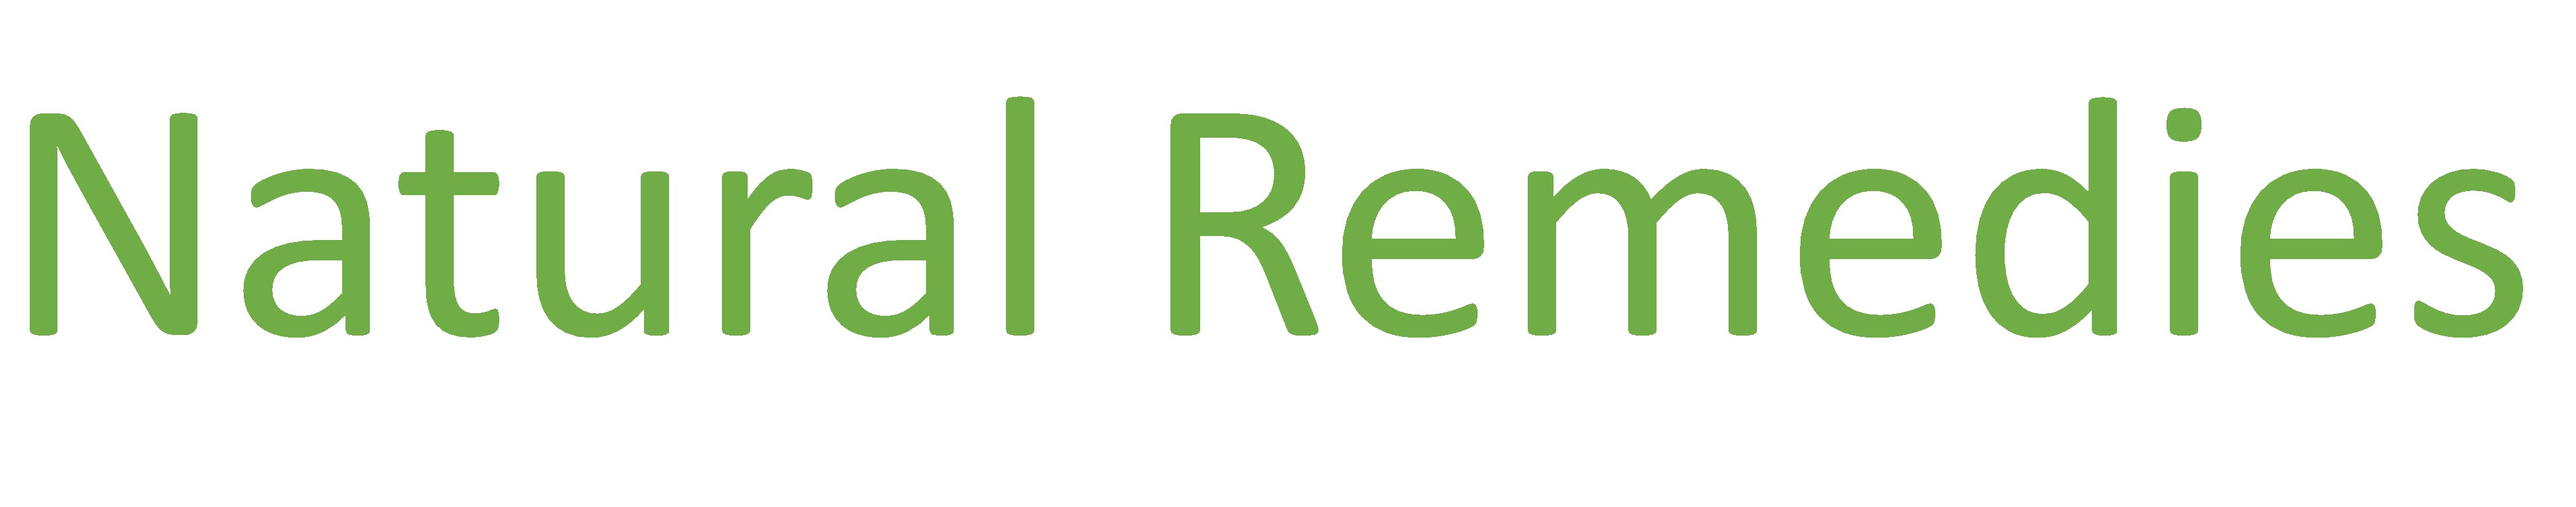
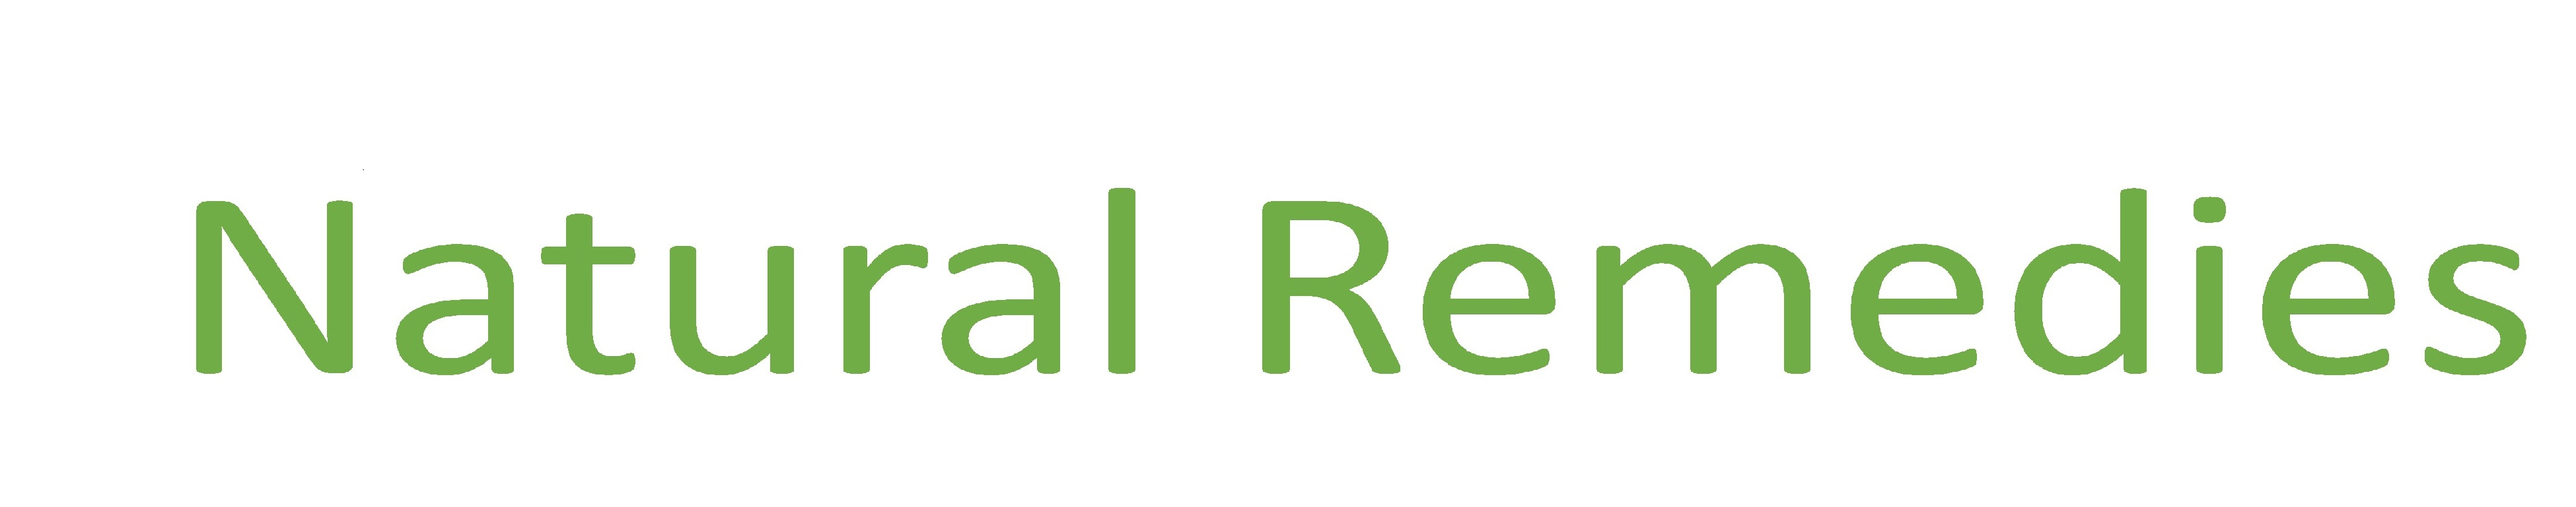
auth

Changed region(s): [[0.0, 0.1873, 0.9928, 0.749]]

diff --git a/static/style.css b/static/style.css
@@ -19,31 +19,59 @@ body{
     padding: 10px 10%;
 }
 
-nav{
+/* Navigation Bar */
+nav {
     display: flex;
     align-items: center;
     justify-content: space-between;
     flex-wrap: wrap;
 }
 
-.logo{
-    width: 440px;
-
-}
-nav ul li{
-    display: inline-block;
+nav ul {
     list-style: none;
+    display: flex;
+}
+
+nav ul li {
+    position: relative; /* For dropdown positioning */
     margin: 10px 20px;
 }
 
-nav ul li a{
+nav ul li a {
     color: #fff;
     text-decoration: none;
     font-size: 18px;
-    position: relative
+    position: relative;
+    display: inline-block;
 }
 
-nav ul li a::after{
+/* Dropdown Styles */
+.dropdown-content {
+    display: none;
+    position: absolute;
+    background: #080808; /* Match dropdown background with body background */
+    min-width: 160px;
+    box-shadow: 0px 8px 16px 0px rgba(0,0,0,0.2);
+    z-index: 1;
+}
+
+.dropdown-content a {
+    color: #fff;
+    padding: 12px 16px;
+    text-decoration: none;
+    display: block;
+}
+
+.dropdown-content a:hover {
+    background-color: #ff004f; /* Color for hover effect */
+}
+
+nav ul li:hover .dropdown-content {
+    display: block;
+}
+
+/* Hover effect for links */
+nav ul li a::after {
     content: '';
     width: 0;
     height: 3px;
@@ -54,7 +82,7 @@ nav ul li a::after{
     transition: 0.5s;
 }
 
-nav ul li a:hover::after{
+nav ul li a:hover::after {
     width: 100%;
 }
 .header-text{
@@ -68,7 +96,7 @@ nav ul li a:hover::after{
 .header-text h1 span{
     color:aquamarine;
 }
-/*-------------------about-----------------*/
+
 #about{
     padding: 80px 0;
     color: #ababab;
@@ -80,8 +108,7 @@ nav ul li a:hover::after{
 }
 
 .about-col-1{
-    /*size of coca tea image*/
-    flex-basis: 35%;
+    flex-basis: 30%;
 }
 .about-col-1 img{
     width: 100%;

diff --git a/templates/index.html b/templates/index.html
@@ -11,29 +11,36 @@
 <div id = "header">
     <div class =  "container">
         <nav>
-            <img src = "images/Title.jpg" class = "logo">
-
             <ul>
-                <li><a href = '#'>Home</a></li>
-                <li><a href = '#'>About</a></li>
-                <li><a href = '#'>Remedies</a></li>
-                <li><a href = '#'>Contact</a></li>
+                <li><a href="/">Home</a></li>
+                <li class="dropdown">
+                    <a href="javascript:void(0)" class="dropbtn">Remedies</a>
+                    <div class="dropdown-content">
+                        <a href="/cold">Cold</a>
+                        <a href="/headache">Headache</a>
+                        <a href="/stomach">Stomach Ache</a>
+                    </div>
+                </li>
+                <li><a href="/contact">Contact</a></li>
+                <li><a href="/login">Login/Sign Up</a></li>
             </ul>
         </nav>
+            </ul>
+        </nav>
+        
         <div class = "header-text">
             <p>Traditional remedies</p>
-            <h1>Hi,  <span>welcome</span><br> to Natural remedies </h1>
+            <h1>Hi,  <span>Welcome</span><br> to Natural Remedies </h1>
 
         </div>
     </div>
 
-<!------------about------------------------->
 </div>
 <div id = "about">
     <div class = "container">
         <div class = "row">
             <div class = "about-col-1">
-                <img src = "images/Coca_Tea.jpg">
+                <img src = "static/images/Coca_Tea.jpg">
             </div>
             <div class = "about-col-2">
                 <h1 class = "sub-title">About Us</h1>

diff --git a/templates/cold.html b/templates/cold.html
@@ -12,12 +12,17 @@
 <div id="header">
     <div class="container">
         <nav>
-            <img src="images/Title.jpg" class="logo">
             <ul>
-                <li><a href='#'>Home</a></li>
-                <li><a href='#'>About</a></li>
-                <li><a href='#'>Remedies</a></li>
-                <li><a href='#'>Contact</a></li>
+                <li><a href="/">Home</a></li>
+                <li class="dropdown">
+                    <a href="javascript:void(0)" class="dropbtn">Remedies</a>
+                    <div class="dropdown-content">
+                        <a href="/cold">Cold</a>
+                        <a href="/headache">Headache</a>
+                        <a href="/stomach">Stomach Ache</a>
+                    </div>
+                </li>
+                <li><a href="/contact">Contact</a></li>
             </ul>
         </nav>
         <div class="header-text">
@@ -31,7 +36,7 @@
     <div class="container">
         <div class="row">
             <div class="remedies-col-1">
-                <img src="images/cold-remedy.jpg">
+                <img src="static/images/cold-remedy.jpg">
             </div>
             <div class="remedies-col-2">
                 <h1 class="sub-title">Natural Solutions for Colds</h1>

diff --git a/templates/headache.html b/templates/headache.html
@@ -12,12 +12,17 @@
 <div id="header">
     <div class="container">
         <nav>
-            <img src="images/Title.jpg" class="logo">
             <ul>
-                <li><a href='#'>Home</a></li>
-                <li><a href='#'>About</a></li>
-                <li><a href='#'>Remedies</a></li>
-                <li><a href='#'>Contact</a></li>
+                <li><a href="/">Home</a></li>
+                <li class="dropdown">
+                    <a href="javascript:void(0)" class="dropbtn">Remedies</a>
+                    <div class="dropdown-content">
+                        <a href="/cold">Cold</a>
+                        <a href="/headache">Headache</a>
+                        <a href="/stomach">Stomach Ache</a>
+                    </div>
+                </li>
+                <li><a href="/contact">Contact</a></li>
             </ul>
         </nav>
         <div class="header-text">

diff --git a/templates/stomach.html b/templates/stomach.html
@@ -12,12 +12,17 @@
 <div id="header">
     <div class="container">
         <nav>
-            <img src="images/Title.jpg" class="logo">
             <ul>
-                <li><a href='#'>Home</a></li>
-                <li><a href='#'>About</a></li>
-                <li><a href='#'>Remedies</a></li>
-                <li><a href='#'>Contact</a></li>
+                <li><a href="/">Home</a></li>
+                <li class="dropdown">
+                    <a href="javascript:void(0)" class="dropbtn">Remedies</a>
+                    <div class="dropdown-content">
+                        <a href="/cold">Cold</a>
+                        <a href="/headache">Headache</a>
+                        <a href="/stomach">Stomach Ache</a>
+                    </div>
+                </li>
+                <li><a href="/contact">Contact</a></li>
             </ul>
         </nav>
         <div class="header-text">

diff --git a/server.py b/server.py
@@ -1,13 +1,53 @@
-from flask import Flask, render_template, request, redirect, url_for
-from flask_sqlalchemy import SQLAlchemy
-from sqlalchemy import text
+from flask import Flask, render_template, request, session, redirect, url_for, jsonify
+import requests
 
 app = Flask(__name__)
+app.secret_key = 'your-secret-ey' 
 
 
 @app.route('/', methods=['GET'])
 def get_home():
     return render_template('index.html')
+
+@app.route('/login', methods=['GET'])
+def login():
+    return redirect(f'https://cloud-proj.auth.us-east-1.amazoncognito.com/login?client_id=66jeh24nesfrshvc5n2q8n072q&response_type=code&scope=email+openid&redirect_uri=http%3A%2F%2Flocalhost%3A5000%2Fcallback')
+
+@app.route('/logout')
+def logout():
+    session.clear()
+    return redirect(url_for('get_home')) 
+
+@app.route('/callback')
+def callback():
+    code = request.args.get('code')
+    if code:
+        token_url = 'https://cloud-proj.auth.us-east-1.amazoncognito.com/oauth2/token'
+        headers = {'Content-Type': 'application/x-www-form-urlencoded'}
+        data = {
+            'grant_type': 'authorization_code',
+            'client_id': '66jeh24nesfrshvc5n2q8n072q',
+            'code': code,
+            'redirect_uri': 'http://localhost:5000/callback'
+        }
+        response = requests.post(token_url, headers=headers, data=data)
+        if response.status_code == 200:
+            tokens = response.json()
+            session['id_token'] = tokens['id_token'] 
+            session['user'] = { 'email': 'extracted_email_from_id_token' }
+            return redirect(url_for('get_home'))
+        else:
+            return 'Error fetching tokens', 400
+    else:
+        return 'Authorization code not found', 400
+
+@app.route('/is_authenticated', methods=['GET'])
+def is_authenticated():
+    if 'id_token' in session:
+        return jsonify({'authenticated': True}), 200
+    else:
+        return jsonify({'authenticated': False}), 401
+
 
 @app.route('/headache', methods=['GET'])
 def get_heaadache():
